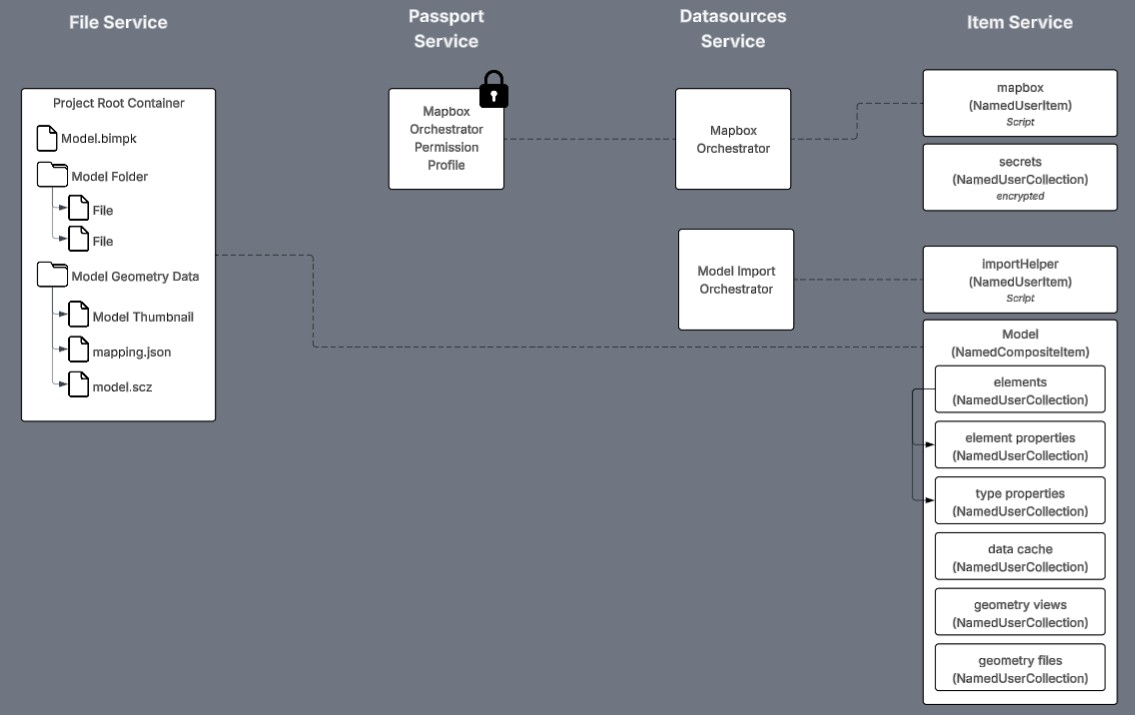
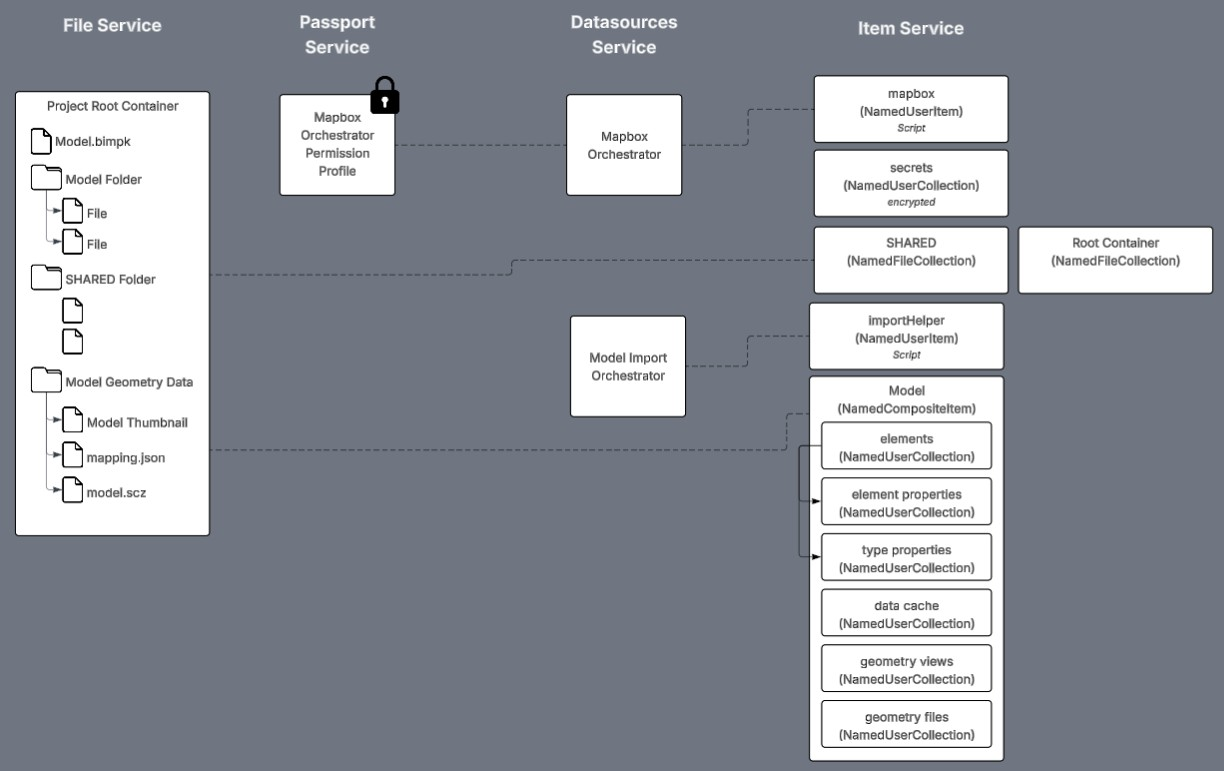
model element file docs

diff --git a/docs/developer guide/implementation/data/model-files.md b/docs/developer guide/implementation/data/model-files.md
@@ -1,6 +1,10 @@
 # Model Files
 
-Files uploaded to Quick Model View are managed by model and stored in a folder in the File Service specific to a model.
+Files uploaded to Quick Model View are managed differently if associated to a model or a model element.
+
+When uploading a file and associating it to model, the file is uploaded using the IafFileSvc PlatformApi to [Model Folders](#model-folders).
+
+When uploading a file and associating it to a model element, the file is uploaded using the IafFile PlatformApi to [Model Element Folders and Items](#model-element-folders-and-items).
 
 ## Model .bimpks
 
@@ -29,13 +33,13 @@ const fetchedBimpks = await IafFileSvc.getFiles(bimpkCriteria, null, { _pageSize
 
 When a file is uploaded through the Quick Model View web-client, if a folder for the model does not yet exist in the Root Container, then one will be created with the model's name, and the file then uploaded to it.
 
-Folders in the File Servce ca be added by:
+Folders in the File Service can be added by:
 
 ```js
 let modelFolder = await IafFileSvc.addFolder(modelComposite._name, project._namespaces)
 ```
 
-Once files have been uploaded the File Service structure will like this:
+Once files have been uploaded the File Service structure will look like this:
 
 ```
 Root Container
@@ -88,6 +92,204 @@ do {
 
 } while (allFiles.length < total)
 ```
+
+## Model Element Folders and Items
+
+In order to associate files to a model element, we need to also create an item for it in the Item Service to relate to the model element item. We do this by mirroring the Fil Service folders in the Item Service using a type of NamedUserItem called a NamedFileCollection that contain items that represent a file in the File Service.
+
+### Root Containers
+
+As we saw above, the File Service contains a root container for all files in a workspace. It was in the File Service Root Container that we create the Model folder.
+
+During file upload, the web-client will also create a NamedFileCollection named Root Container to mirror the File Service's Root Container.
+
+![files-root-containers](../../../img/data-model/files-root-containers.jpg)
+
+You can get the create an Item Service NamedFileCollection Root Container by using:
+
+```js
+await IafFile.createContainer(
+   { _namespaces: project._namespaces },
+   undefined
+)
+```
+
+You can get the Item Service NamedFileCollection Root Container by using:
+
+```js
+await IafFile.getRootContainer(project)
+```
+
+```json
+{
+  "_uri": "/nameduseritems/687e4b0e79f20cdac7152",
+  "_name": "Root Container",
+  "_userType": "file_container",
+  "_tipId": "687e4b0e79f20f2dcd153",
+  "_versions": [
+    {
+      "_userAttributes": {
+        "path": "/"
+      },
+      "_userItemDbId": "687e4b0e79f20f2dc7152",
+      "_id": "687e4b0e79f20f2dac7153",
+      "_isTip": true,
+      "_metadata": {
+        "_updatedById": "d1408826-9647-494e-9669-4b1264e2",
+        "_createdAt": 1753107214596,
+        "_createdById": "d1408826-9647-494e-9669-4b121364e2",
+        "_updatedAt": 1753107214596
+      },
+      "_version": 1
+    }
+  ],
+  "_irn": "itemsvc:nameduseritem:687e4b0e79f20dac7152",
+  "_namespaces": [
+    "DemoM_UzQKuot"
+  ],
+  "_nextVersion": 2,
+  "_shortName": "Root Container",
+  "_tipVersion": 1,
+  "_versionsCount": 1,
+  "_itemClass": "NamedFileCollection",
+  "_userItemId": "root container_s7r9NQNYEL",
+  "_id": "687e4b0e79f20f2dcda52",
+  "_description": "Root Container",
+  "_metadata": {
+    "_updatedById": "d1408826-9647-494e-9669-4b64e2",
+    "_createdAt": 1753107214586,
+    "_createdById": "d1408826-9647-494e-9669-43dc64e2",
+    "_updatedAt": 1753107214586
+  },
+  "_kind": "collection"
+}
+```
+
+
+### SHARED Folder
+
+Within both the File Service and Item Service Root Containers, the web-client will also create a SHARED folder if it does not already exist. I is in hi folder that all files associated to model elements will be uploaded (File Service) and in which File Items will be created (Item Service).
+
+![files-shared-containers](../../../img/data-model/files-shared-containers.jpg)
+
+You can create a new NamedFileCollection by using:
+
+```js
+await IafFile.createContainer(rootContainer, {
+   _name: "Container Name",
+   _description: "File Container for folder in file service",
+   folderId: FileServiceFolder._id
+})
+```
+
+You can retrieve the SHARED folder by using:
+
+```js
+await IafFile.getContainers(project, { _name: "SHARED" })
+```
+
+```json
+{
+  "_uri": "/nameduseritems/687e4b0f0648530816a",
+  "_name": "SHARED",
+  "_userType": "file_container",
+  "_tipId": "687e4b0f0648533f5816b",
+  "_versions": [
+    {
+      "_userAttributes": {
+        "path": "/SHARED/",
+        "parentPath": "/",
+        "folderId": "b66bffe0-63b4-4112-9ba1-8fff3a62"
+      },
+      "_userItemDbId": "687e4b0f064885816a",
+      "_id": "687e4b0f064853085816b",
+      "_isTip": true,
+      "_metadata": {
+        "_updatedById": "d1408826-9647-494e-9669-4b12c64e2",
+        "_createdAt": 1753107215437,
+        "_createdById": "d1408826-9647-494e-9669-4b14e2",
+        "_updatedAt": 1753107215437
+      },
+      "_version": 1
+    }
+  ],
+  "_irn": "itemsvc:nameduseritem:687e4b0f0648533085816a",
+  "_namespaces": [
+    "DemoM_Uzuot"
+  ],
+  "_nextVersion": 2,
+  "_shortName": "SHARED",
+  "_tipVersion": 1,
+  "_versionsCount": 1,
+  "_itemClass": "NamedFileCollection",
+  "_userItemId": "shared_xdIoKlxJv0",
+  "_id": "687e4b0f064853816a",
+  "_description": "File Container for SHARED folder in file service",
+  "_metadata": {
+    "_updatedById": "d1408826-9647-494e-9669-4b12132",
+    "_createdAt": 1753107215434,
+    "_createdById": "d1408826-9647-494e-9669-4b14e2",
+    "_updatedAt": 1753107215434
+  },
+  "_kind": "collection"
+}
+```
+
+### File Items
+
+File Items are then created in the SHARED NamedFileCollection when uploading a file. The File Item includes a reference to the File in the File Service it represents.
+
+You can upload files to the SHARED container using:
+
+```js
+await IafFile.uploadFileResumable(sharedContainer, file, {
+   onProgress: (bytesUploaded, bytesTotal) => onUploadProgress(bytesUploaded, bytesTotal, file),
+   onComplete: (upfile) => onUploadComplete(deferredResolve, upfile), // onComplete will be passed the file record in the file service
+   onError: (error) => onUploadError(deferredReject, error, file)
+});
+```
+
+The above will upload the file to the SHARED folder in the File Service, then create a file item in the SHARED NamedFileCollection in the Item Service. You query File Items as you would any other item in the Item Service.
+
+Below is an example File Item.
+
+```json
+{
+   "fileAttributes": {},
+   "versions": [
+      {
+         "metadata": {
+            "_updatedById": "da630aa1-f9da-481b-b27e-b1a7ec70",
+            "_createdAt": 1753990865586,
+            "_createdById": "da630aa1-f9da-481b-b27e-b1a7ec70",
+            "_updatedAt": 1753990865586
+         },
+         "fileSize": 699693,
+         "versionNumber": 1,
+         "_fileVersionId": "43191d5e-19f5-4977-aebc-73c13af"
+      }
+   ],
+   "name": "myuploadedfile.png",
+   "tipVersionNumber": 1,
+   "_id": "688bc6d42bc93f098cf8c",
+   "containerPath": "/SHARED/",
+   "nextVersionNumber": 2,
+   "_metadata": {
+      "_updatedById": "da630aa1-f9da-481b-b27e-b104dea7ec70",
+      "_createdAt": 1753990868714,
+      "_createdById": "da630aa1-f9da-481b-b27e-b104dea7ec70",
+      "_updatedAt": 1753990868714
+   },
+   "_fileId": "c9486be6-1239-460d-80a1-d7a5b5fe"
+}
+```
+
+The File Item contains these references you can use to get the file it represents in the File Service:
+
+* _fileId: The id of the file in the File Service
+* _versions[x]._fileVersionId: The id of the file version in he File Service
+* _versions[x].versionNumber: The version number of the file version in the File Service
+
 
 ---
 [In-Depth: Template Data Model](../imp-data-model.md) < Back

diff --git a/README.md b/README.md
@@ -16,7 +16,7 @@ The Quick Model View Twinit Application Template provides an easy to learn,  eas
 | ![](./docs/img/import-view.jpg) |  Import multiple CAD models to your Quick Model View projects |
 | View your imported models and review the properties on model elements you select in the viewer. Download element reports to Excel. | ![](./docs/img/model-view.jpg) |
 | ![](./docs/img/model-view-w-gis.jpg) | Enable the Mapbox integration in the Twinit 2D/3D model viewer to view your models on a map |
-| Attach files to your models for reference or download, and even view supported file formats directly in the browser | ![](./docs/img/model-view-docs.jpg) |
+| Attach files to your models and model elements for reference or download, and even view supported file formats directly in the browser | ![](./docs/img/model-view-docs.jpg) |
 | ![](./docs/img/invite-users.jpg) | Collaborate with other users by inviting them to your Quick Model View projects |
 
 Be sure to check back often as new features and capabilities will be added to the template over time.

diff --git a/docs/release-notes.md b/docs/release-notes.md
@@ -7,6 +7,7 @@ _May 2025_
 
 * A new dropdown has been added allowing older versions of the imported model to be viewed.
 * Files can now be attached to a model, downloaded, and viewed directly in the browser.
+* Files can now be attached to a model element, downloaded, and viewed directly in the browser.
 * Twinit 2D/3D Model viewer updated to version 4.6 from 4.3. See these release notes for new viewer capabilities
    * [IafViewer 4.4](https://twinit.dev/docs/concepts/v4.4/release-notes#improved-iafviewer)
    * [IafViewer 4.5](https://twinit.dev/docs/concepts/v4.5/release-notes#improved-iafviewer)
